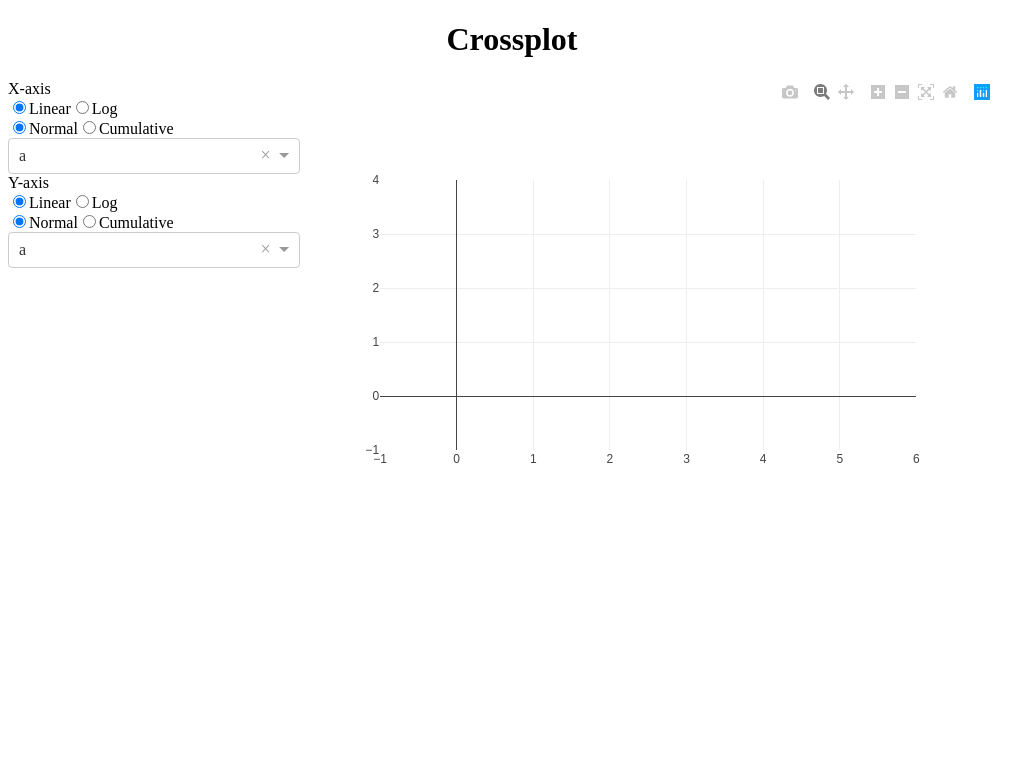
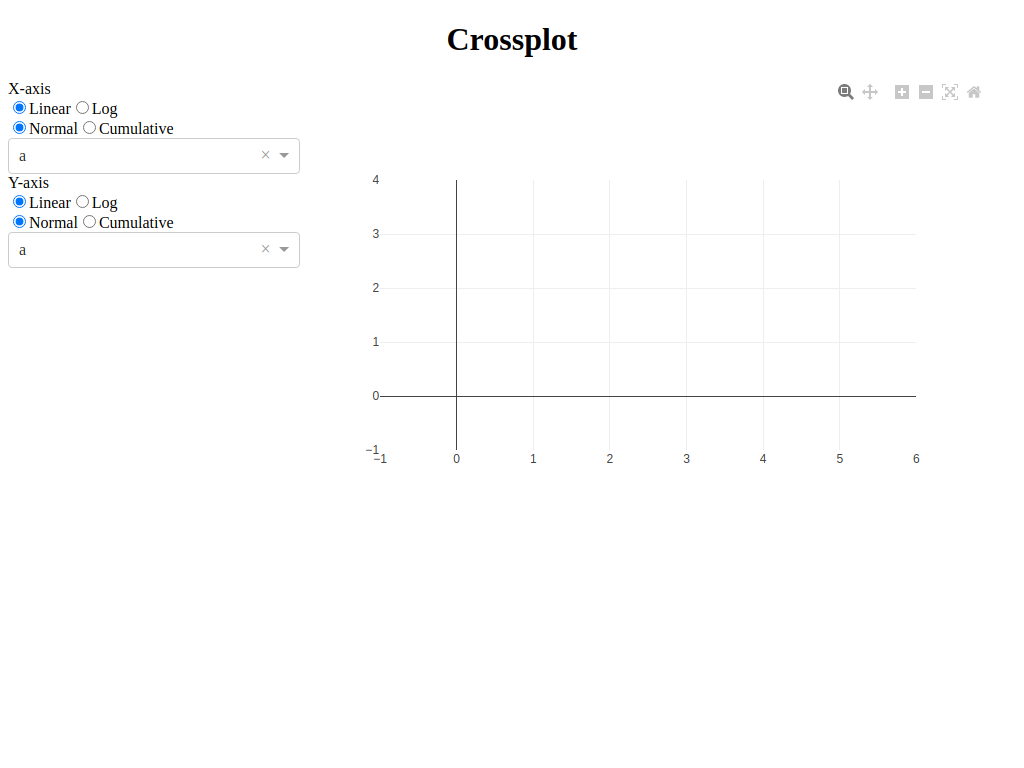
remove mode bar png download button from graphs

diff --git a/tests/conftest.py b/tests/conftest.py
@@ -1,15 +1,26 @@
+import os
 import pytest
 import dash
 from PIL import ImageFilter, ImageChops
 
 
 @pytest.fixture()
-def assert_equal_images():
+def assert_equal_images(tmpdir):
     def func(image_1, image_2, threshold=0.1):
         """
         In this function we check if two images are almost identical
          by blurring and calculating MSE between the images.
         """
+        filename1 = (
+            os.path.join(tmpdir, image_1.filename)
+            if not os.path.isabs(image_1.filename)
+            else image_1.filename
+        )
+        filename2 = (
+            os.path.join(tmpdir, image_2.filename)
+            if not os.path.isabs(image_2.filename)
+            else image_2.filename
+        )
 
         image_1, image_2 = [image.convert("L") for image in [image_1, image_2]]
         image_1, image_2 = [
@@ -22,8 +33,10 @@ def assert_equal_images():
 
         error = diff / (image_1.size[0] * image_1.size[1])
 
-        assert error < threshold, "Bounding box: {}".format(
-            ImageChops.subtract(image_1, image_2).getbbox()
+        assert (
+            error < threshold
+        ), "Bounding box: {}\nImage 1 path: {}\nImage 2 path: {}\n".format(
+            ImageChops.subtract(image_1, image_2).getbbox(), filename1, filename2
         )
 
     return func

diff --git a/everviz/plugins/crossplot/crossplot_indexed.py b/everviz/plugins/crossplot/crossplot_indexed.py
@@ -117,7 +117,15 @@ class CrossplotIndexed(WebvizPluginABC):
                             },
                         ),
                         html.Div(
-                            [dcc.Graph(id=self.graph_id)],
+                            [
+                                dcc.Graph(
+                                    id=self.graph_id,
+                                    config={
+                                        "modeBarButtonsToRemove": ["toImage"],
+                                        "displaylogo": False,
+                                    },
+                                )
+                            ],
                             style={"width": "69%", "display": "inline-block"},
                         ),
                     ]

diff --git a/everviz/plugins/objectives_plot/objectives_plot.py b/everviz/plugins/objectives_plot/objectives_plot.py
@@ -87,7 +87,15 @@ class ObjectivesPlot(WebvizPluginABC):
                             },
                         ),
                         html.Div(
-                            [dcc.Graph(id=self.graph_id)],
+                            [
+                                dcc.Graph(
+                                    id=self.graph_id,
+                                    config={
+                                        "modeBarButtonsToRemove": ["toImage"],
+                                        "displaylogo": False,
+                                    },
+                                )
+                            ],
                             style={"width": "69%", "display": "inline-block"},
                         ),
                     ]

diff --git a/everviz/plugins/summary_plot/summary_plot.py b/everviz/plugins/summary_plot/summary_plot.py
@@ -107,7 +107,15 @@ class SummaryPlot(WebvizPluginABC):
                             },
                         ),
                         html.Div(
-                            [dcc.Graph(id=self.graph_id)],
+                            [
+                                dcc.Graph(
+                                    id=self.graph_id,
+                                    config={
+                                        "modeBarButtonsToRemove": ["toImage"],
+                                        "displaylogo": False,
+                                    },
+                                )
+                            ],
                             style={"width": "69%", "display": "inline-block"},
                         ),
                     ]

diff --git a/everviz/plugins/controls_plot/controls_plot.py b/everviz/plugins/controls_plot/controls_plot.py
@@ -63,7 +63,15 @@ class ControlsPlot(WebvizPluginABC):
                             },
                         ),
                         html.Div(
-                            [dcc.Graph(id=self.graph_id)],
+                            [
+                                dcc.Graph(
+                                    id=self.graph_id,
+                                    config={
+                                        "modeBarButtonsToRemove": ["toImage"],
+                                        "displaylogo": False,
+                                    },
+                                )
+                            ],
                             style={"width": "69%", "display": "inline-block"},
                         ),
                     ]

diff --git a/everviz/plugins/crossplot/crossplot.py b/everviz/plugins/crossplot/crossplot.py
@@ -89,7 +89,15 @@ class Crossplot(WebvizPluginABC):
                             },
                         ),
                         html.Div(
-                            [dcc.Graph(id=self.graph_id)],
+                            [
+                                dcc.Graph(
+                                    id=self.graph_id,
+                                    config={
+                                        "modeBarButtonsToRemove": ["toImage"],
+                                        "displaylogo": False,
+                                    },
+                                )
+                            ],
                             style={"width": "69%", "display": "inline-block"},
                         ),
                     ]

diff --git a/everviz/plugins/objectives_plot/single_objectives_plot.py b/everviz/plugins/objectives_plot/single_objectives_plot.py
@@ -40,7 +40,15 @@ class SingleObjectivesPlot(WebvizPluginABC):
     @property
     def layout(self):
         return html.Div(
-            [dcc.Graph(id=self.graph_id)],
+            [
+                dcc.Graph(
+                    id=self.graph_id,
+                    config={
+                        "modeBarButtonsToRemove": ["toImage"],
+                        "displaylogo": False,
+                    },
+                )
+            ],
             id=self.div_id,
             style={"width": "69%", "display": "inline-block"},
         )
